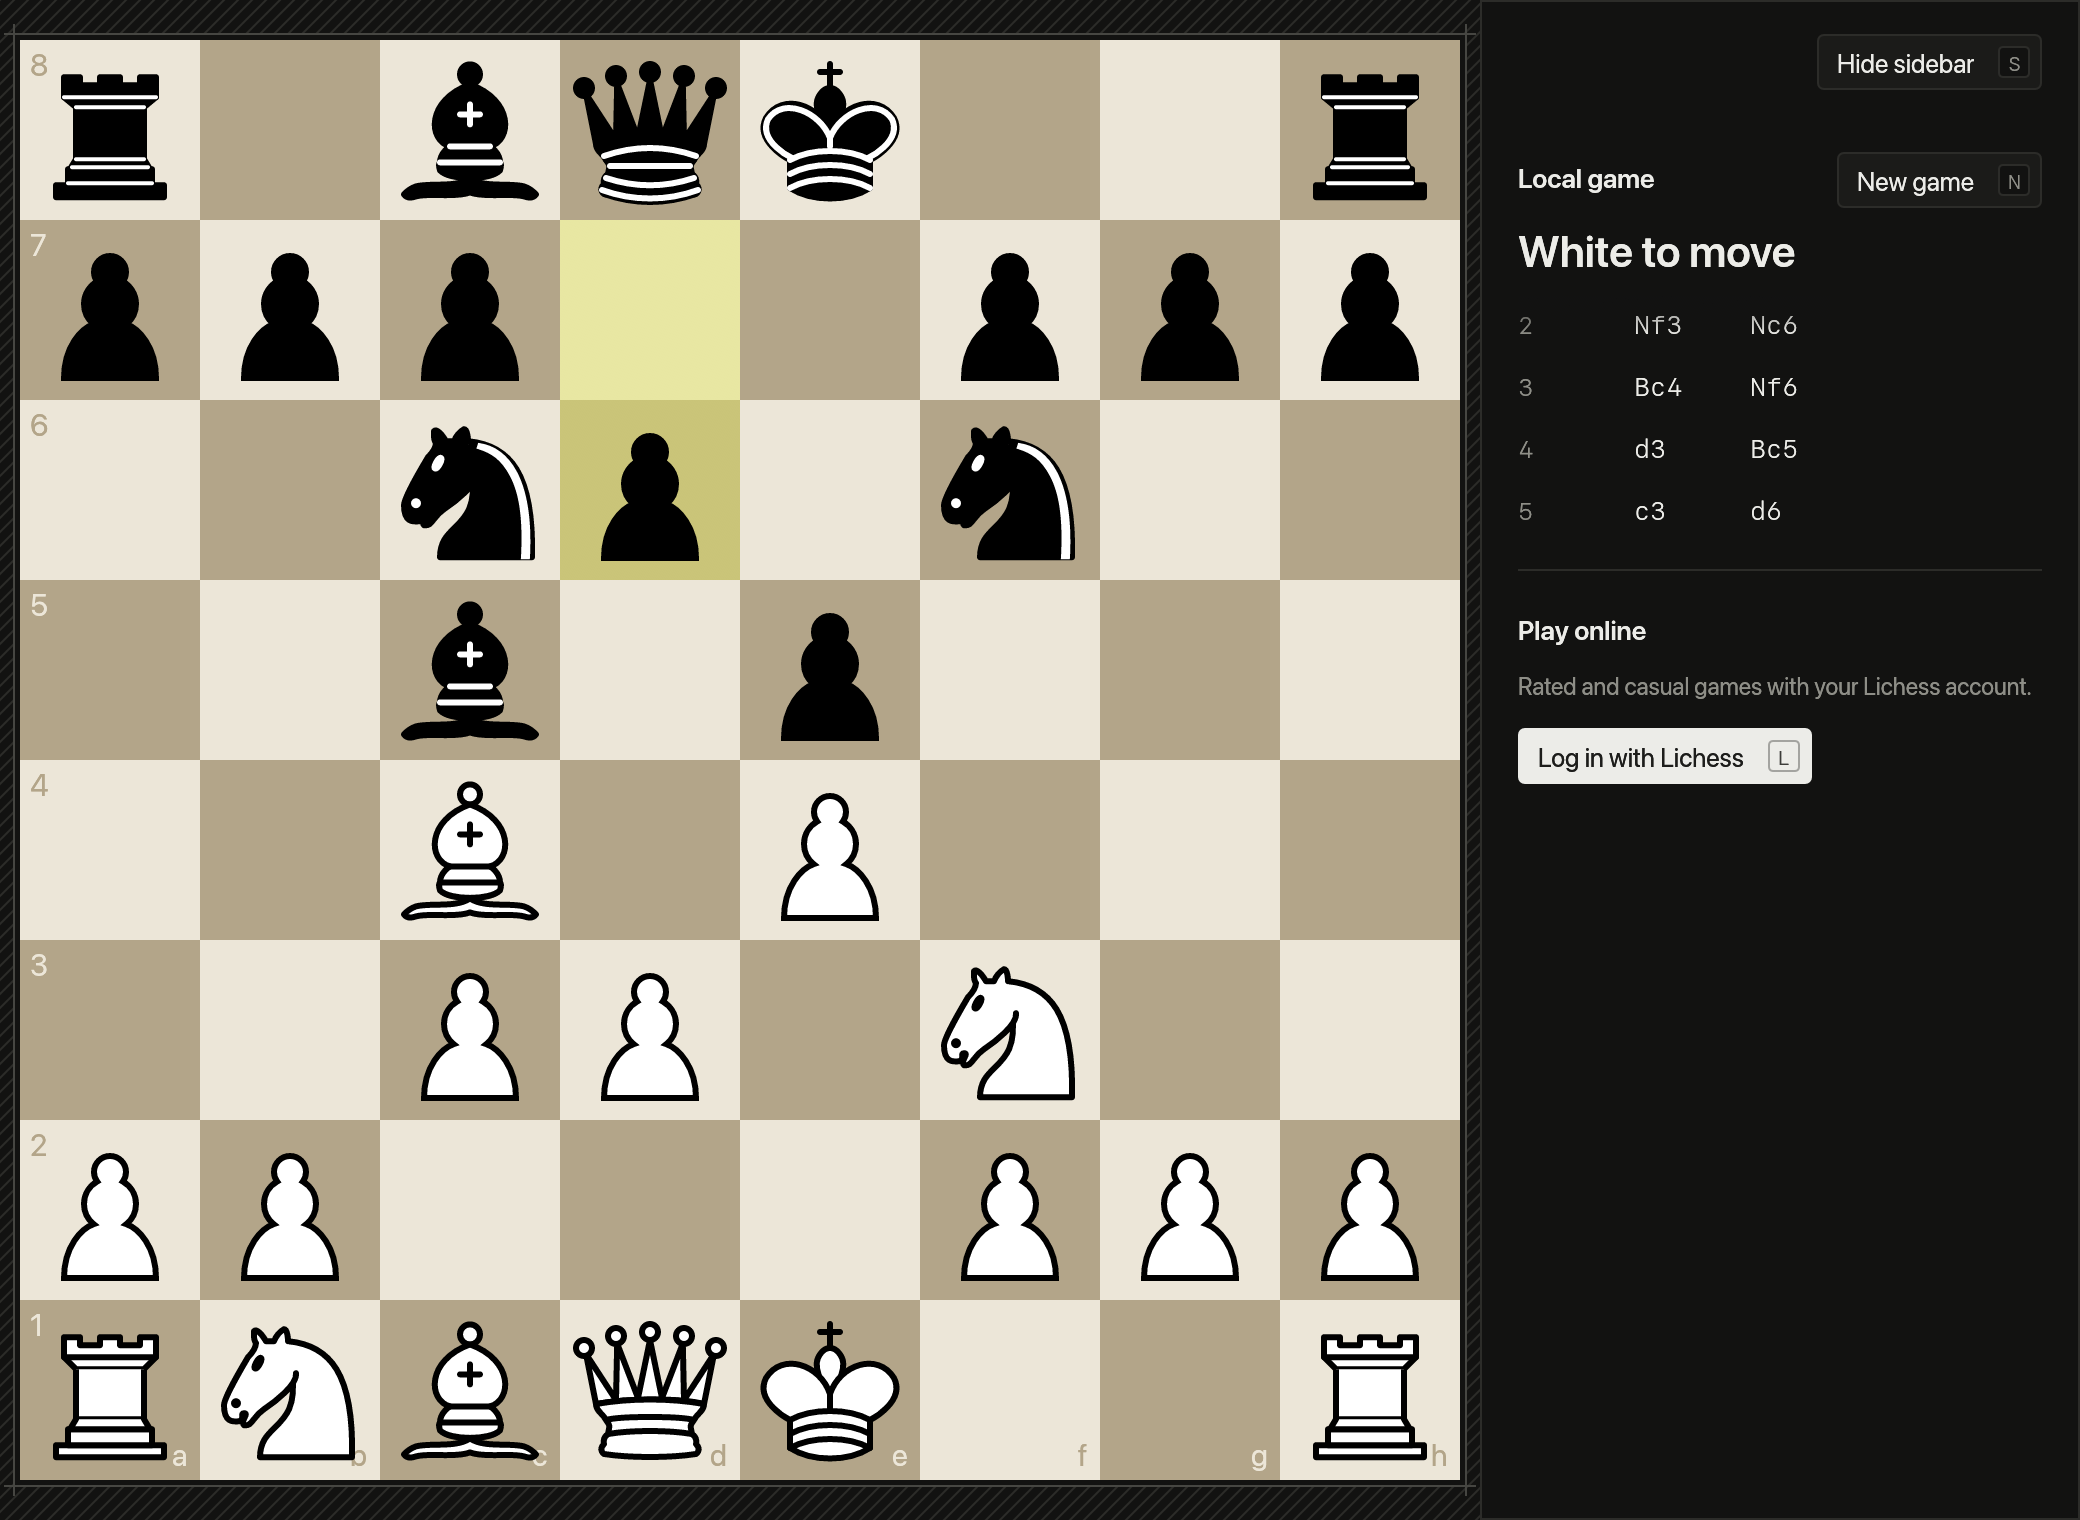
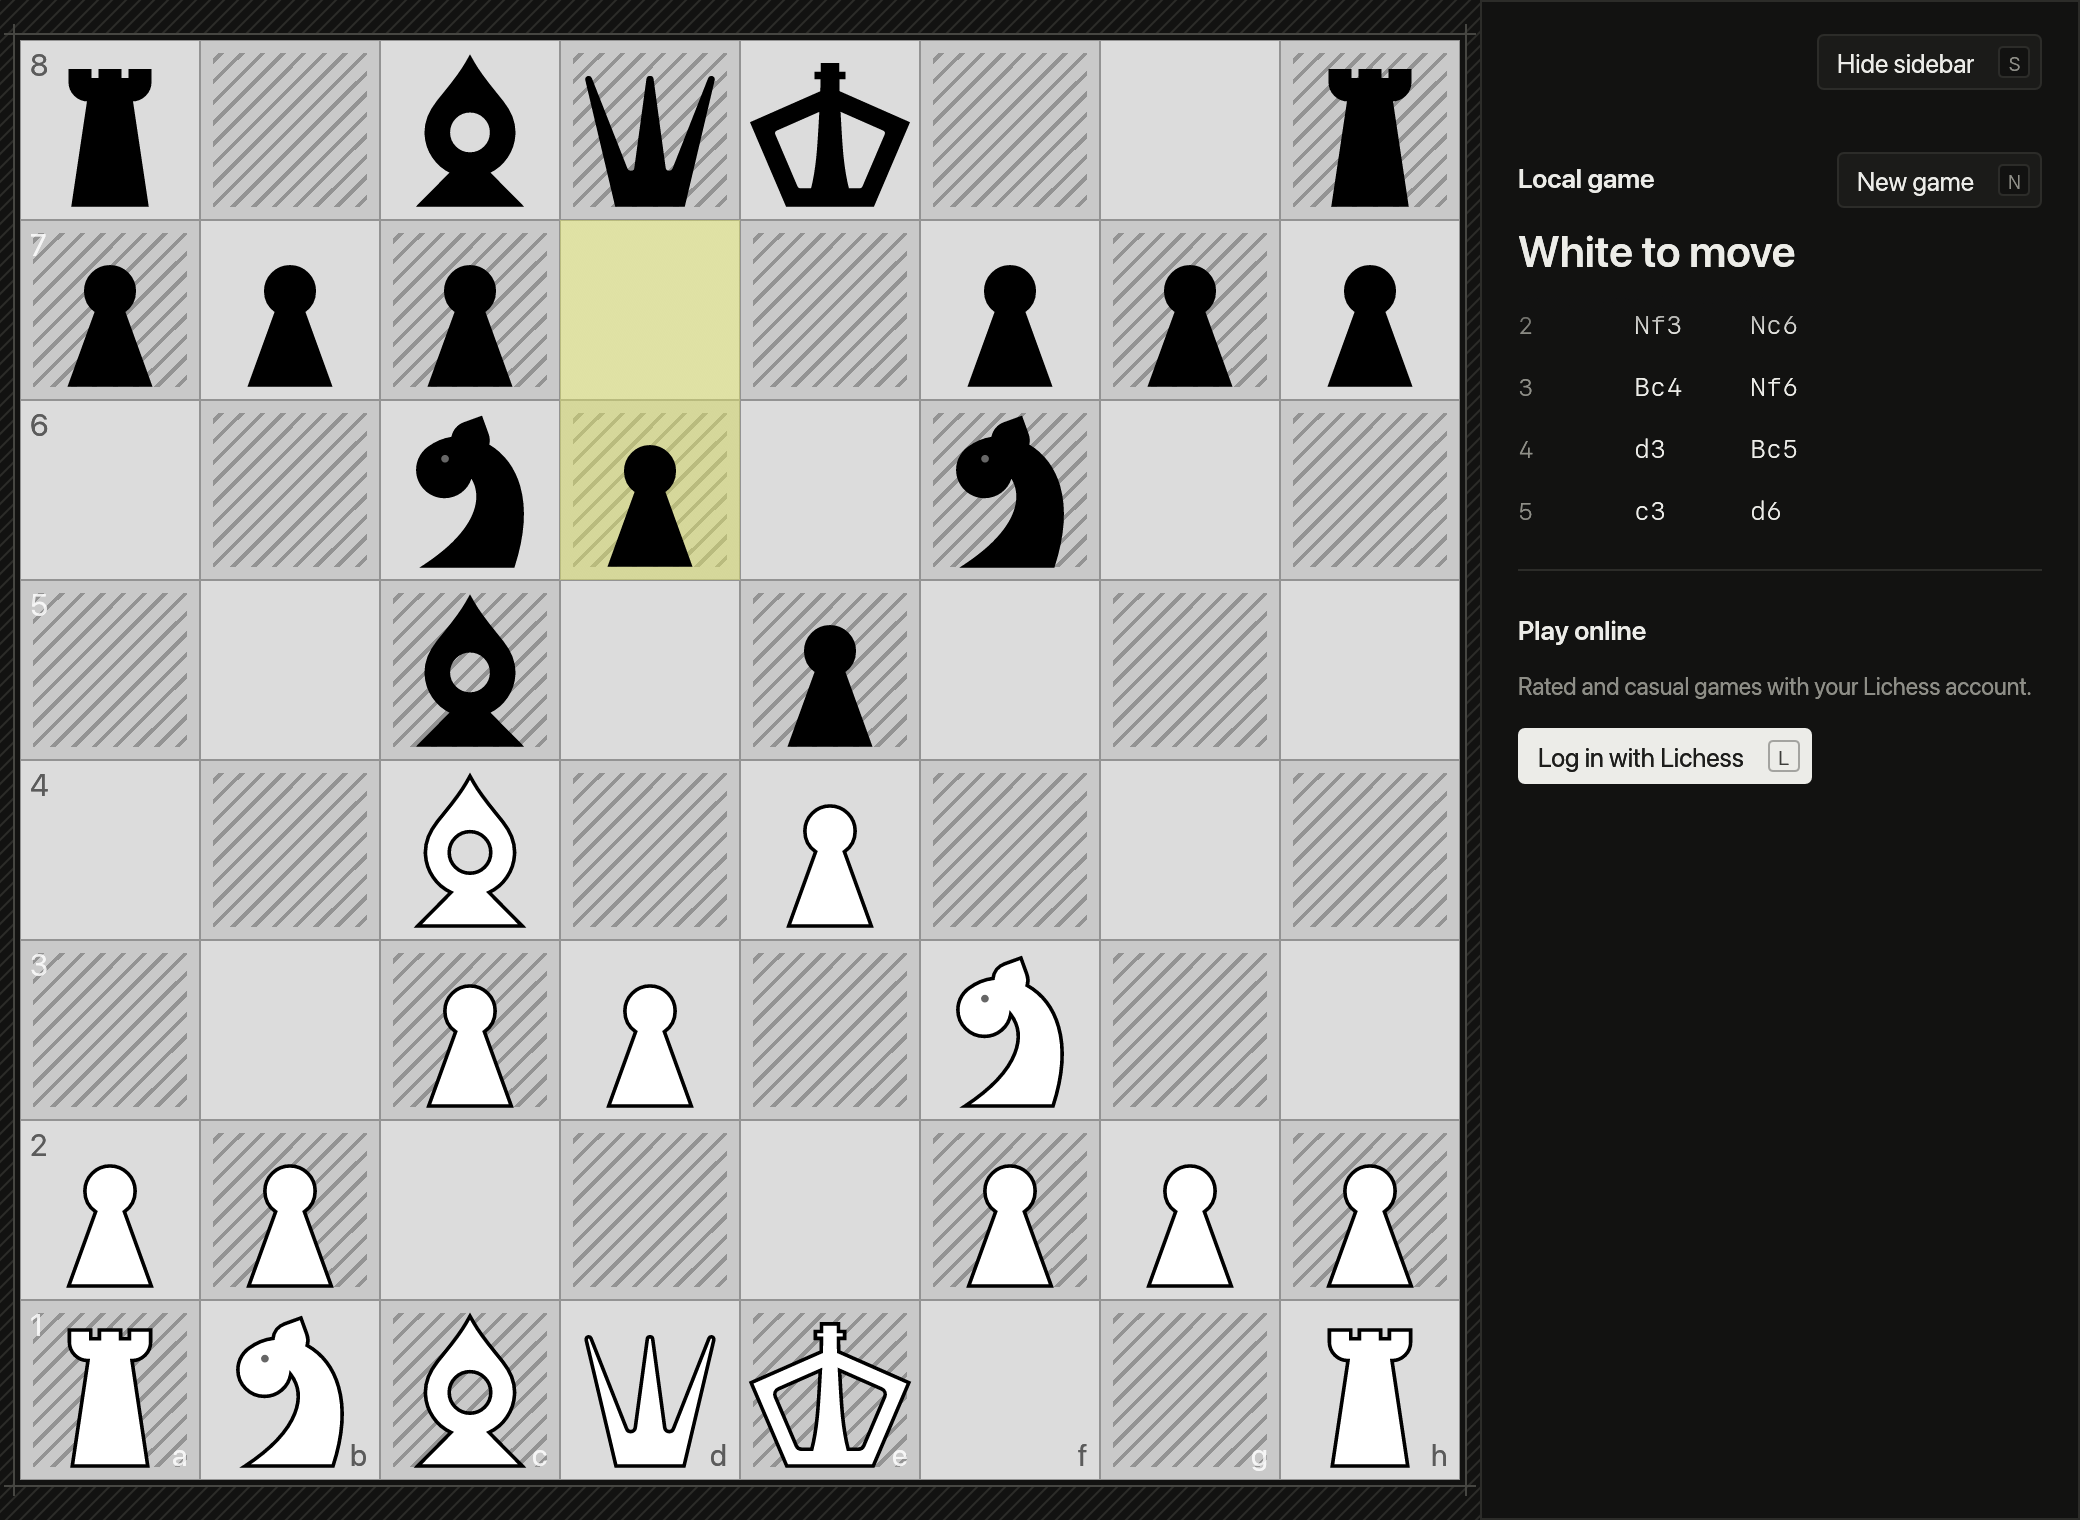
README screenshots with Lichess sets; fix dark-mode selection text; scrollable sidebar (#8)
## What

- **README screenshots** now use Lichess piece sets and boards:
  - Light: **totoy** pieces on the **marble** board.
  - Dark: **minimal-warmth** pieces on the **newspaper** board.
- Both are stacked full-width at native resolution (2080×1520), instead
of side by side. Credits and licences are in ASSETS.md: totoy is CC BY
4.0, minimal-warmth is CC BY-NC-SA 4.0 (so that screenshot file carries
the same licence), and the boards are AGPLv3+.
- riohacha was the first choice for light mode, but it has no licence
recorded in lila's COPYING.md, so totoy, a similar, openly licensed set,
stands in.
- The "Saying it" pronunciation note is removed.
- **Fix: unreadable selection in dark mode.** Selected items such as
Random/White/Black drew light text on the yellow highlighter.
`override_text_color` forced every text colour, including selected ones.
It's now unset, so normal text comes from the widget styles and selected
text uses the highlighter's ink.
- **The sidebar scrolls** when the window is too short for the lobby.
- **Demo mode** gains `CATURANKAM_PIECES`, `CATURANKAM_BOARD` and
`CATURANKAM_USER` (shows the lobby offline, for screenshots only).
Captures now wait until downloads finish.

## Testing

`fmt`, `clippy -D warnings` and 25 tests pass. The dark-mode lobby was
re-rendered to check the selection fix.

🤖 Generated with [Claude Code](https://claude.com/claude-code)

diff --git a/crates/app/src/main.rs b/crates/app/src/main.rs
@@ -149,6 +149,8 @@ impl App {
         let settings = match &demo {
             Some(d) => Settings {
                 dark: d.dark,
+                piece_set: d.pieces.clone(),
+                board: d.board.clone(),
                 ephemeral: true,
                 ..Settings::default()
             },
@@ -182,10 +184,13 @@ impl App {
             sidebar_hidden_at: None,
             title: String::new(),
         };
-        if let Some(d) = &app.demo
-            && let Ok((game, _)) = Game::from_uci("startpos", &d.moves)
-        {
-            app.local = game;
+        if let Some(d) = &app.demo {
+            if let Ok((game, _)) = Game::from_uci("startpos", &d.moves) {
+                app.local = game;
+            }
+            if let Some(user) = &d.user {
+                app.account = Account::LoggedIn(user.clone());
+            }
         }
         app.apply_appearance(ctx);
         app.apply_mode(ctx);
@@ -691,12 +696,18 @@ impl App {
                     }
                 });
                 ui.add_space(6.0);
-                self.account_row(ui);
-                match &self.play {
-                    Play::Local => self.local_panel(ui),
-                    Play::Seeking { .. } => self.seeking_panel(ui),
-                    Play::Online(_) => self.online_panel(ui),
-                }
+                // Scrolls when the window is too short for the lobby.
+                egui::ScrollArea::vertical()
+                    .id_salt("sidebar")
+                    .auto_shrink(false)
+                    .show(ui, |ui| {
+                        self.account_row(ui);
+                        match &self.play {
+                            Play::Local => self.local_panel(ui),
+                            Play::Seeking { .. } => self.seeking_panel(ui),
+                            Play::Online(_) => self.online_panel(ui),
+                        }
+                    });
             });
     }
 
@@ -1233,7 +1244,7 @@ impl eframe::App for App {
         self.promotion_picker(&ctx, now);
         self.appearance_window(&ctx);
         if let Some(d) = &mut self.demo {
-            d.frame(&ctx);
+            d.frame(&ctx, !self.assets.downloading());
         }
     }
 }

diff --git a/crates/app/src/demo.rs b/crates/app/src/demo.rs
@@ -4,6 +4,9 @@
 //! - `CATURANKAM_DEMO=1`: default settings that are never saved; no saved login.
 //! - `CATURANKAM_DARK=1`: dark appearance.
 //! - `CATURANKAM_MOVES="e2e4 e7e5"`: moves to play on the local board.
+//! - `CATURANKAM_USER=name`: show the logged-in lobby as `name`, offline (nothing is
+//!   sent anywhere; for screenshots only).
+//! - `CATURANKAM_PIECES=chessnut`, `CATURANKAM_BOARD=wood4`: a Lichess piece set and board.
 //! - `CATURANKAM_SHOT=out.png`: capture the window once it has settled, then quit.
 //!
 //! The window captures itself, so no screen-recording permission is needed.
@@ -17,6 +20,9 @@ const SETTLE_FRAMES: u32 = 10;
 pub struct Demo {
     pub dark: bool,
     pub moves: String,
+    pub user: Option<String>,
+    pub pieces: Option<String>,
+    pub board: Option<String>,
     shot: Option<PathBuf>,
     frames: u32,
     requested: bool,
@@ -29,16 +35,22 @@ impl Demo {
         Some(Self {
             dark: var("CATURANKAM_DARK").is_some(),
             moves: var("CATURANKAM_MOVES").unwrap_or_default(),
+            user: var("CATURANKAM_USER"),
+            pieces: var("CATURANKAM_PIECES"),
+            board: var("CATURANKAM_BOARD"),
             shot: var("CATURANKAM_SHOT").map(PathBuf::from),
             frames: 0,
             requested: false,
         })
     }
 
-    /// Call once per frame: requests the capture, then saves it and quits.
-    pub fn frame(&mut self, ctx: &egui::Context) {
+    /// Call once per frame: requests the capture (once `ready`, i.e. no
+    /// downloads pending), then saves it and quits.
+    pub fn frame(&mut self, ctx: &egui::Context, ready: bool) {
         let Some(path) = &self.shot else { return };
-        self.frames += 1;
+        if ready {
+            self.frames += 1;
+        }
         if !self.requested && self.frames >= SETTLE_FRAMES {
             ctx.send_viewport_cmd(egui::ViewportCommand::Screenshot(Default::default()));
             self.requested = true;

diff --git a/crates/app/src/style.rs b/crates/app/src/style.rs
@@ -121,7 +121,9 @@ pub fn apply(ctx: &egui::Context, pal: &Pal) {
     v.window_fill = pal.surface;
     v.extreme_bg_color = pal.surface;
     v.faint_bg_color = pal.bg;
-    v.override_text_color = Some(pal.text);
+    // Not `override_text_color`: that would also force text on selected items
+    // (the highlighter), where it must be `selection.stroke` instead.
+    v.override_text_color = None;
     v.weak_text_color = Some(pal.muted);
     v.selection.bg_fill = pal.accent;
     // Text on the highlighter stays dark in both modes.

diff --git a/crates/app/src/assets.rs b/crates/app/src/assets.rs
@@ -235,6 +235,10 @@ impl Assets {
         self.pending.remove(url);
     }
 
+    pub fn downloading(&self) -> bool {
+        !self.pending.is_empty()
+    }
+
     fn complete_set(&mut self, set: &str) {
         let Some(files) = self.partial.get(set) else {
             return;

diff --git a/README.md b/README.md
@@ -6,16 +6,11 @@ A super-lightweight native chess client for Lichess, written in Rust. No browser
 no Electron. Caturankam (சதுரங்கம்) is the Tamil name for chaturanga, chess's ancient
 Indian ancestor.
 
-> **Saying it:** four short syllables, *sa · thu · rang · gam*. The *c* is a soft *s*
-> (Tamil ச), the *th* is a soft dental *t* (tongue touching the teeth, as in Tamil or
-> Spanish), and the *r* is a single flick of the tongue.
-
 Caturankam for Lichess is an independent project, not an official Lichess app.
 
-<p align="center">
-  <img src="docs/screenshots/light.png" width="49%" alt="Caturankam in light mode: a stone-coloured board mid-game, with a sidebar showing the moves and a Log in with Lichess button">
-  <img src="docs/screenshots/dark.png" width="49%" alt="Caturankam in dark mode: the same position with the dark palette">
-</p>
+![Caturankam in light mode: Lichess totoy pieces on the marble board, mid-game, with the sidebar showing the moves and a Log in with Lichess button](docs/screenshots/light.png)
+
+![Caturankam in dark mode: Lichess minimal-warmth pieces on the newspaper board, same position](docs/screenshots/dark.png)
 
 ## What it does
 

diff --git a/ASSETS.md b/ASSETS.md
@@ -5,6 +5,8 @@ Every piece set, image, sound and track shipped with Caturankam, with its source
 | Asset | Source | Licence |
 |---|---|---|
 | Original pieces (`themes/original/pieces/*.svg`) | Cburnett set, [Wikimedia Commons](https://commons.wikimedia.org/wiki/File:Chess_klt45.svg), unmodified | BSD-3-Clause (chosen from the author's GFDL/CC BY-SA/BSD/GPL options), see [`themes/original/pieces/LICENSE`](themes/original/pieces/LICENSE) |
+| `docs/screenshots/light.png` | App screenshot with the Lichess **totoy** pieces (Kosal Sen) on the **marble** board (lila authors) | Pieces CC BY 4.0; board AGPLv3+ (per lila's [COPYING.md](https://github.com/lichess-org/lila/blob/master/COPYING.md)) |
+| `docs/screenshots/dark.png` | App screenshot with the Lichess **minimal-warmth** pieces ([blunder_reign](https://lichess.org/@/blunder_reign)) on the **newspaper** board (lila authors) | Pieces CC BY-NC-SA 4.0, so this screenshot file is CC BY-NC-SA 4.0; board AGPLv3+ |
 | Original board and UI colours | Plain hex values in `themes/original/theme.toml` | MIT (this repo) |
 
 Note: Lichess redistributes the Cburnett set under GPLv2+. Ours comes from the Wikimedia
